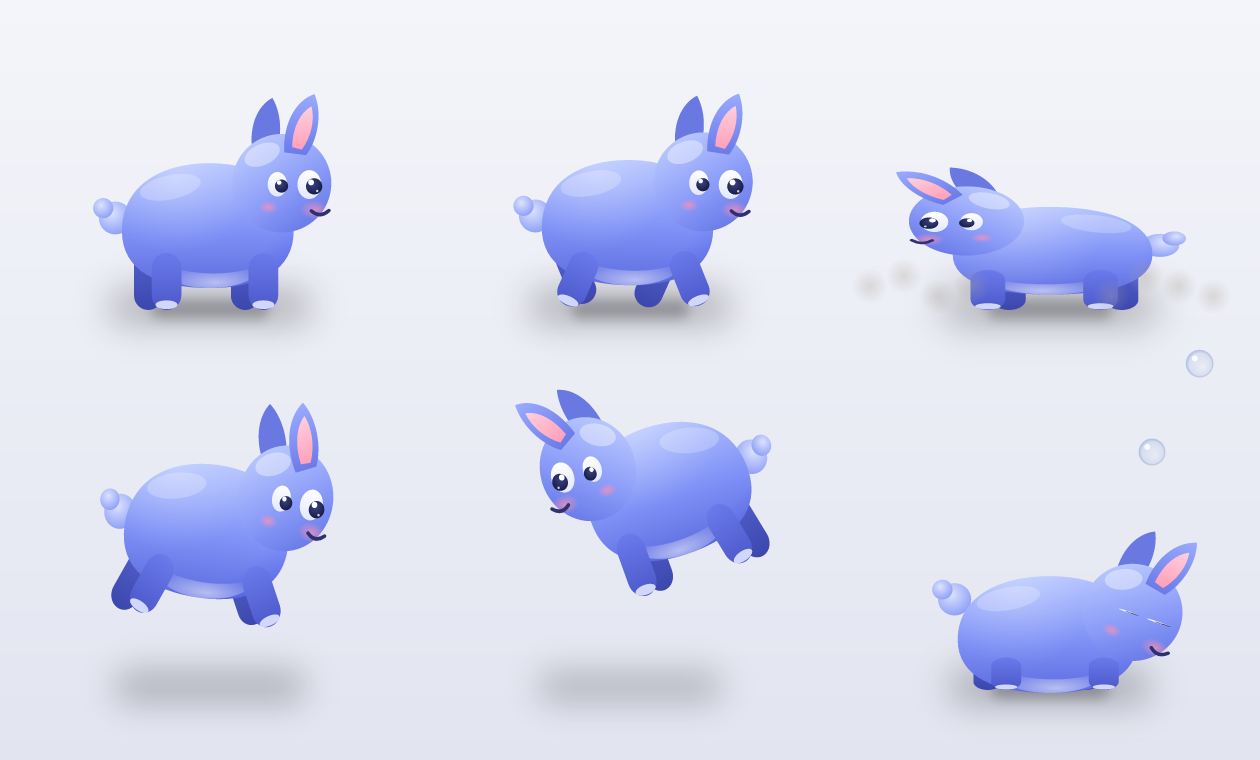
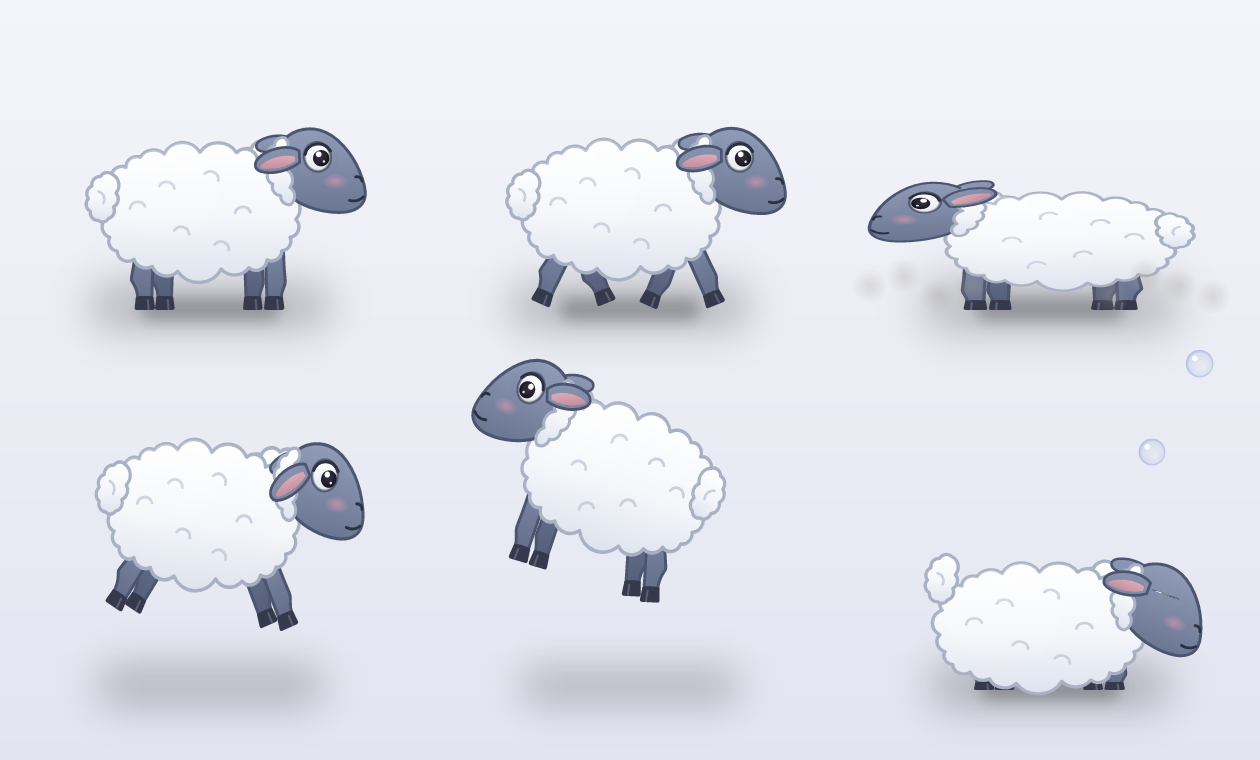
Redraw the Mannequin as a sheep with sound anatomy
The Mannequin was a blue, rabbit-like placeholder: ears on top of a
round head, a mouth under one eye, a tail of two blobs. It is now a
sheep in profile, drawn after real sheep anatomy, with a slate-blue
head and legs after the Bleu du Maine breed:

- a long head with a slightly convex nose, the eye high on its side;
- ears set behind the eye on the side of the skull, carried flat and
  backwards;
- the nostril at the tip of the muzzle and the mouth right under it;
- a woolly tail hanging from the top of the rump;
- thin legs coming out from under the fleece (knee in front, hock
  behind, cloven hooves), all drawn behind it;
- wool on the neck that ties the head to the body.

It keeps the rig contract (same group and pivot names), so the engine
animates it as before; a ring the colour of the face, drawn over the
pupil, keeps the pupil inside the eye when it follows the cursor. It is
shown 54 points high (84 wide). docs/poses.png shows its poses.

Claude-Session: https://claude.ai/code/session_01GqdxqXp1vwEYiae7WkCmAL

diff --git a/README.md b/README.md
@@ -56,7 +56,7 @@ throw them across the desktop.
 | **Poete** | The mascot of Mouflon, a painted sheep. It lives in its own repository and waits for the permission of its original creator before being shared. |
 | **Pelote** | A soft wool sheep with a collar and a bell (`pets/pelote`): the desktopPet behaviors, drawn in high definition. |
 | **Lainou** | A small wool sheep with a bell (`pets/lainou`): 26 animations drawn frame by frame, in both directions. |
-| Mannequin | The built-in test character, a vector rig animated by Mouflon (`pets/mannequin`). |
+| Mannequin | The built-in example: a sheep drawn as a vector rig (slate-blue head, after the Bleu du Maine breed) and animated by Mouflon (`pets/mannequin`). |
 
 ### Requirements
 
@@ -295,7 +295,7 @@ se laissent attraper et lancer à travers le bureau.
 | **Poete** | La mascotte de Mouflon, un mouton peint. Il vit dans son propre dépôt et attend l'accord de son créateur d'origine avant d'être partagé. |
 | **Pelote** | Un mouton tout en laine douce, avec son collier et sa clochette (`pets/pelote`) : les comportements de desktopPet, dessinés en haute définition. |
 | **Lainou** | Un petit mouton de laine à clochette (`pets/lainou`) : 26 animations dessinées image par image, dans les deux sens. |
-| Mannequin | Le personnage de test intégré, un pantin vectoriel animé par Mouflon (`pets/mannequin`). |
+| Mannequin | L'exemple intégré : un mouton dessiné en vecteurs (tête bleu ardoise, d'après la race Bleu du Maine) et animé par Mouflon (`pets/mannequin`). |
 
 ### Prérequis
 
